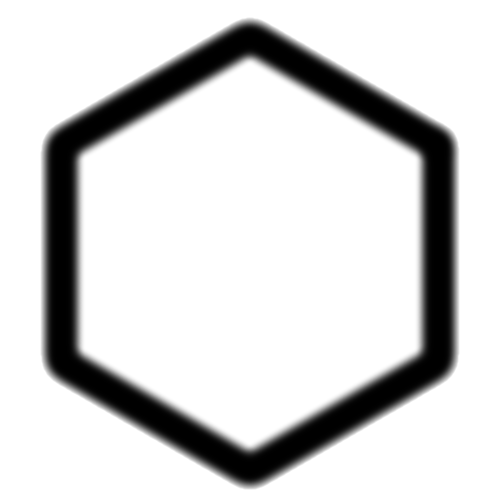
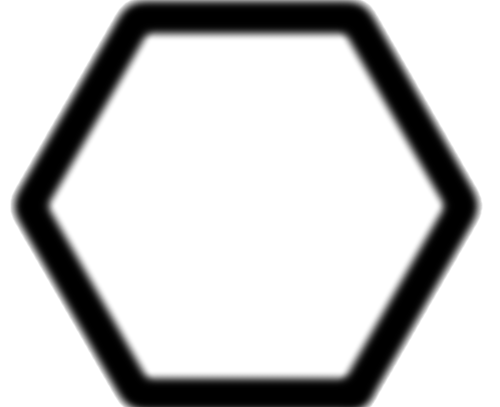
map visualization first iteration

diff --git a/core/src/com/mygdx/game/view/ConstructorMap.java b/core/src/com/mygdx/game/view/ConstructorMap.java
@@ -5,6 +5,7 @@ import com.badlogic.gdx.Screen;
 import com.badlogic.gdx.graphics.Color;
 import com.badlogic.gdx.graphics.OrthographicCamera;
 import com.badlogic.gdx.graphics.g2d.BitmapFont;
+import com.badlogic.gdx.maps.tiled.renderers.HexagonalTiledMapRenderer;
 import com.badlogic.gdx.scenes.scene2d.Actor;
 import com.badlogic.gdx.scenes.scene2d.Stage;
 import com.badlogic.gdx.scenes.scene2d.ui.*;
@@ -13,6 +14,7 @@ import com.badlogic.gdx.utils.ScreenUtils;
 import com.mygdx.game.model.maps.BiomCreator;
 import com.mygdx.game.model.maps.Map;
 import com.mygdx.game.model.maps.MapCell;
+import controllers.MapView;
 
 import java.util.HashMap;
 import java.util.Objects;
@@ -21,25 +23,35 @@ public class ConstructorMap implements Screen {
     final Start game;
     private final Stage stage;
     private Map map;
-    private String n1="25",n2="25",n3="5",n4="1.5",n5="2",n6="0.1";
-    private String textRandom="Random: off";
-    private java.util.Map<String,Integer> statInfo = new HashMap<>();
+    private String n1 = "25", n2 = "25", n3 = "5", n4 = "1.5", n5 = "2", n6 = "0.1";
+    private String textRandom = "Random: off";
+    private java.util.Map<String, Integer> statInfo = new HashMap<>();
     private OrthographicCamera camera;
+    private HexagonalTiledMapRenderer renderer;
+    private BitmapFont font;
 
     public ConstructorMap(final Start game) {
         this.game = game;
+
         stage = new Stage();
         Gdx.input.setInputProcessor(stage);
 
         CreateTypeCell();
-        stage.addActor(CreateWindow());
+//        stage.addActor(CreateWindow());
+
+
+        MapView mapView = new MapView(map);
+        mapView.create();
+        renderer = mapView.getRenderer();
 
         camera = new OrthographicCamera();
         camera.setToOrtho(false, 1080, 720);
+
+        font = new BitmapFont();
     }
 
     //Menu+Map
-    public Table CreateWindow(){
+    public Table CreateWindow() {
         Table window = new Table();
         window.setFillParent(true);
 
@@ -52,7 +64,7 @@ public class ConstructorMap implements Screen {
     }
 
     //buttons,settings
-    public Table CreateMenu(){
+    public Table CreateMenu() {
         Table table = new Table();
         BitmapFont myFont = new BitmapFont(Gdx.files.internal("bitmapfont/Amble-Regular-26.fnt"));
 
@@ -77,20 +89,19 @@ public class ConstructorMap implements Screen {
 
         final TextField fieldX = new TextField(this.n1, labelStyle1);
         final TextField fieldY = new TextField(this.n2, labelStyle1);
-        final TextField fieldSeed = new TextField(this.n3,labelStyle1);
-        final TextField fieldDegree = new TextField(this.n4,labelStyle1);
-        final TextField fieldOctaves = new TextField(this.n5,labelStyle1);
-        final TextField fieldPersistence = new TextField(this.n6,labelStyle1);
+        final TextField fieldSeed = new TextField(this.n3, labelStyle1);
+        final TextField fieldDegree = new TextField(this.n4, labelStyle1);
+        final TextField fieldOctaves = new TextField(this.n5, labelStyle1);
+        final TextField fieldPersistence = new TextField(this.n6, labelStyle1);
 
         final Button lightingCheckBox = new TextButton(textRandom, textButtonStyle);
         lightingCheckBox.setName(textRandom);
         lightingCheckBox.addListener(new ChangeListener() {
             @Override
             public void changed(ChangeEvent event, Actor actor) {
-                if(Objects.equals(lightingCheckBox.getName(), "Random: off")){
+                if (Objects.equals(lightingCheckBox.getName(), "Random: off")) {
                     textRandom = "Random: on";
-                }
-                else{
+                } else {
                     textRandom = "Random: off";
                 }
                 lightingCheckBox.setName(textRandom);
@@ -104,16 +115,16 @@ public class ConstructorMap implements Screen {
             public void changed(ChangeEvent event, Actor actor) {
                 n1 = fieldX.getText();
                 n2 = fieldY.getText();
-                if(Objects.equals(textRandom, "Random: on")){
+                if (Objects.equals(textRandom, "Random: on")) {
                     n3 = "-1";
-                }else n3 = fieldSeed.getText();
+                } else n3 = fieldSeed.getText();
                 n4 = fieldDegree.getText();
                 n5 = fieldOctaves.getText();
                 n6 = fieldPersistence.getText();
                 BiomCreator a = new BiomCreator(
                         Integer.parseInt(n1),//x
                         Integer.parseInt(n2),//y
-                        (long)Double.parseDouble(n3)//seed
+                        (long) Double.parseDouble(n3)//seed
                 );
                 UpdateSettings(a);
                 map = a.view_Up(0);
@@ -146,12 +157,12 @@ public class ConstructorMap implements Screen {
     }
 
     //Take Map in type_cell
-    public Table CreateMap(){
+    public Table CreateMap() {
         Label.LabelStyle labelStyle = new Label.LabelStyle();
         labelStyle.font = new BitmapFont(Gdx.files.internal("bitmapfont/Amble-Regular-26.fnt"));
         Table table = new Table();
-        for (int i=0;i<map.cells.length;++i) {
-            if((i&1)==1) table.add(new Label(" ",new Label.LabelStyle(labelStyle)));
+        for (int i = 0; i < map.cells.length; ++i) {
+            if ((i & 1) == 1) table.add(new Label(" ", new Label.LabelStyle(labelStyle)));
             for (MapCell cell : map.cells[i]) {
                 labelStyle.fontColor = cell.type.color();
                 table.add(new Label(" ", new Label.LabelStyle(labelStyle)));
@@ -162,20 +173,20 @@ public class ConstructorMap implements Screen {
         return table;
     }
 
-    private void CreateTypeCell(){
-        BiomCreator a = new BiomCreator(Integer.parseInt(n1), Integer.parseInt(n2),Integer.parseInt(n3));
+    private void CreateTypeCell() {
+        BiomCreator a = new BiomCreator(Integer.parseInt(n1), Integer.parseInt(n2), Integer.parseInt(n3));
         map = a.view_Up(0);
         statInfo = a.getStatInfo();
     }
 
-    private Table CreateTableStatInfo(Table tableMenu){
+    private Table CreateTableStatInfo(Table tableMenu) {
         BitmapFont myFont = new BitmapFont(Gdx.files.internal("bitmapfont/Amble-Regular-26.fnt"));
 
         Label.LabelStyle labelStyle = new Label.LabelStyle();
         labelStyle.font = myFont;
         labelStyle.fontColor = Color.RED;
 
-        for(java.util.Map.Entry<String,Integer> entry : statInfo.entrySet()){
+        for (java.util.Map.Entry<String, Integer> entry : statInfo.entrySet()) {
             String key = entry.getKey();
             String value = String.valueOf(entry.getValue());
             tableMenu.row();
@@ -185,12 +196,12 @@ public class ConstructorMap implements Screen {
         return tableMenu;
     }
 
-    private void UpdateWindow(){
+    private void UpdateWindow() {
         stage.getActors().clear();
         stage.addActor(CreateWindow());
     }
 
-    private void UpdateSettings(BiomCreator a){
+    private void UpdateSettings(BiomCreator a) {
         a.setDegree(Double.parseDouble(n4));
         a.setOctaves(Integer.parseInt(n5));
         a.setPersistence(Double.parseDouble(n6));
@@ -200,17 +211,21 @@ public class ConstructorMap implements Screen {
     public void render(float delta) {
         ScreenUtils.clear(0, 0, 0.2f, 1);
         camera.update();
-        game.batch.setProjectionMatrix(camera.combined);
+        //game.batch.setProjectionMatrix(camera.combined);
+        renderer.setView(camera);
 
-//        game.batch.begin();
-        stage.act();
-        stage.draw();
-//        game.batch.end();
+        renderer.render();
+
+        game.batch.begin();
+//        stage.act();
+//        stage.draw();
+        font.draw(game.batch, "FPS: " + Gdx.graphics.getFramesPerSecond(), 10, 20);
+        game.batch.end();
     }
 
     @Override
     public void resize(int width, int height) {
-        stage.getViewport().update(width,height);
+        stage.getViewport().update(width, height);
     }
 
     @Override

diff --git a/core/src/controllers/MapView.java b/core/src/controllers/MapView.java
@@ -1,0 +1,91 @@
+package controllers;
+
+import com.badlogic.gdx.Gdx;
+import com.badlogic.gdx.graphics.OrthographicCamera;
+import com.badlogic.gdx.graphics.Texture;
+import com.badlogic.gdx.graphics.g2d.PolygonRegion;
+import com.badlogic.gdx.graphics.g2d.TextureRegion;
+import com.badlogic.gdx.maps.MapLayers;
+import com.badlogic.gdx.maps.tiled.TiledMap;
+import com.badlogic.gdx.maps.tiled.TiledMapTile;
+import com.badlogic.gdx.maps.tiled.TiledMapTileLayer;
+import com.badlogic.gdx.maps.tiled.renderers.HexagonalTiledMapRenderer;
+import com.badlogic.gdx.maps.tiled.tiles.StaticTiledMapTile;
+import com.badlogic.gdx.math.EarClippingTriangulator;
+import com.mygdx.game.model.maps.Map;
+
+import static com.badlogic.gdx.graphics.g2d.TextureRegion.split;
+
+public class MapView {
+    private String rsrc = "pastel_resources_hex/rotat/";
+    private final Map map;
+    private HexagonalTiledMapRenderer renderer;
+
+    public MapView(Map map) {
+        this.map = map;
+    }
+
+    public HexagonalTiledMapRenderer getRenderer() {
+        return renderer;
+    }
+
+    public void create() {
+        TiledMap tiledMap = new TiledMap();
+        MapLayers layers = tiledMap.getLayers();
+        TiledMapTile[] tiles = new TiledMapTile[1];
+        TextureRegion tr= new TextureRegion(new Texture(Gdx.files.internal(rsrc+"desertHex.gif")));
+        tiles[0]=new StaticTiledMapTile(tr);
+        TiledMapTileLayer lay = new TiledMapTileLayer(10, 10, 64, 55);
+        for (int i = 0; i < 10; ++i) {
+            for (int j = 0; j < 10; ++j) {
+                TiledMapTileLayer.Cell cell = new TiledMapTileLayer.Cell();
+                cell.setTile(tiles[0]);
+                lay.setCell(i, j, cell);
+            }
+        }
+        layers.add(lay);
+        renderer = new HexagonalTiledMapRenderer(tiledMap);
+//
+
+//
+//        hexture = new Texture(Gdx.files.internal("data/maps/tiled/hex/hexes.png"));
+//        TextureRegion[][] hexes = TextureRegion.split(hexture, 112, 97);
+//        map = new TiledMap();
+//        MapLayers layers = map.getLayers();
+//        TiledMapTile[] tiles = new TiledMapTile[3];
+//        tiles[0] = new StaticTiledMapTile(new TextureRegion(hexes[0][0]));
+//        tiles[1] = new StaticTiledMapTile(new TextureRegion(hexes[0][1]));
+//        tiles[2] = new StaticTiledMapTile(new TextureRegion(hexes[1][0]));
+//
+//        for (int l = 0; l < 1; l++) {
+//            TiledMapTileLayer layer = new TiledMapTileLayer(45, 30, 112, 97);
+//            for (int y = 0; y < 30; y++) {
+//                for (int x = 0; x < 45; x++) {
+//                    int id = (int)(Math.random() * 3);
+//                    Cell cell = new Cell();
+//                    cell.setTile(tiles[id]);
+//                    layer.setCell(x, y, cell);
+//                }
+//            }
+//            layers.add(layer);
+//        }
+//
+//        renderer = new HexagonalTiledMapRenderer(map);
+    }
+
+//    private PolygonRegion polygon(TextureRegion tr) {
+//        float[] vertices = {
+//                tr.getRegionWidth() * 0.25f, 0,
+//                tr.getRegionWidth() * 0.75f, 0,
+//                0, tr.getRegionHeight()/2.0f,
+//                tr.getRegionWidth(), tr.getRegionHeight()/2.0f,
+//                tr.getRegionWidth()*0.25f, tr.getRegionHeight(),
+//                tr.getRegionWidth()*0.75f, tr.getRegionHeight()
+//        };
+//        return new PolygonRegion(
+//                tr,
+//                vertices,
+//                new EarClippingTriangulator().computeTriangles(vertices).toArray()
+//        );
+//    }
+}

diff --git a/core/src/com/mygdx/game/view/WorldMap.java b/core/src/com/mygdx/game/view/WorldMap.java
@@ -3,14 +3,15 @@ package com.mygdx.game.view;
 import com.badlogic.gdx.Screen;
 import com.badlogic.gdx.maps.tiled.TiledMap;
 import com.badlogic.gdx.maps.tiled.TiledMapTileLayer;
+import com.badlogic.gdx.maps.tiled.renderers.HexagonalTiledMapRenderer;
 import com.mygdx.game.model.maps.Map;
+import controllers.MapView;
 
 public class WorldMap implements Screen {
     private int width;
     private int height;
     private Map map;
-    TiledMap tiledMap;
-    TiledMapTileLayer layer;
+    private HexagonalTiledMapRenderer renderer;
 
     public WorldMap(int height, int width) {
         this.width = width;
@@ -20,6 +21,9 @@ public class WorldMap implements Screen {
 
     private void init() {
         map = Map.createMap(height, width, 0,0);
+        MapView mapView=new MapView(map);
+        mapView.create();
+        renderer=mapView.getRenderer();
         printmap();
     }
 
